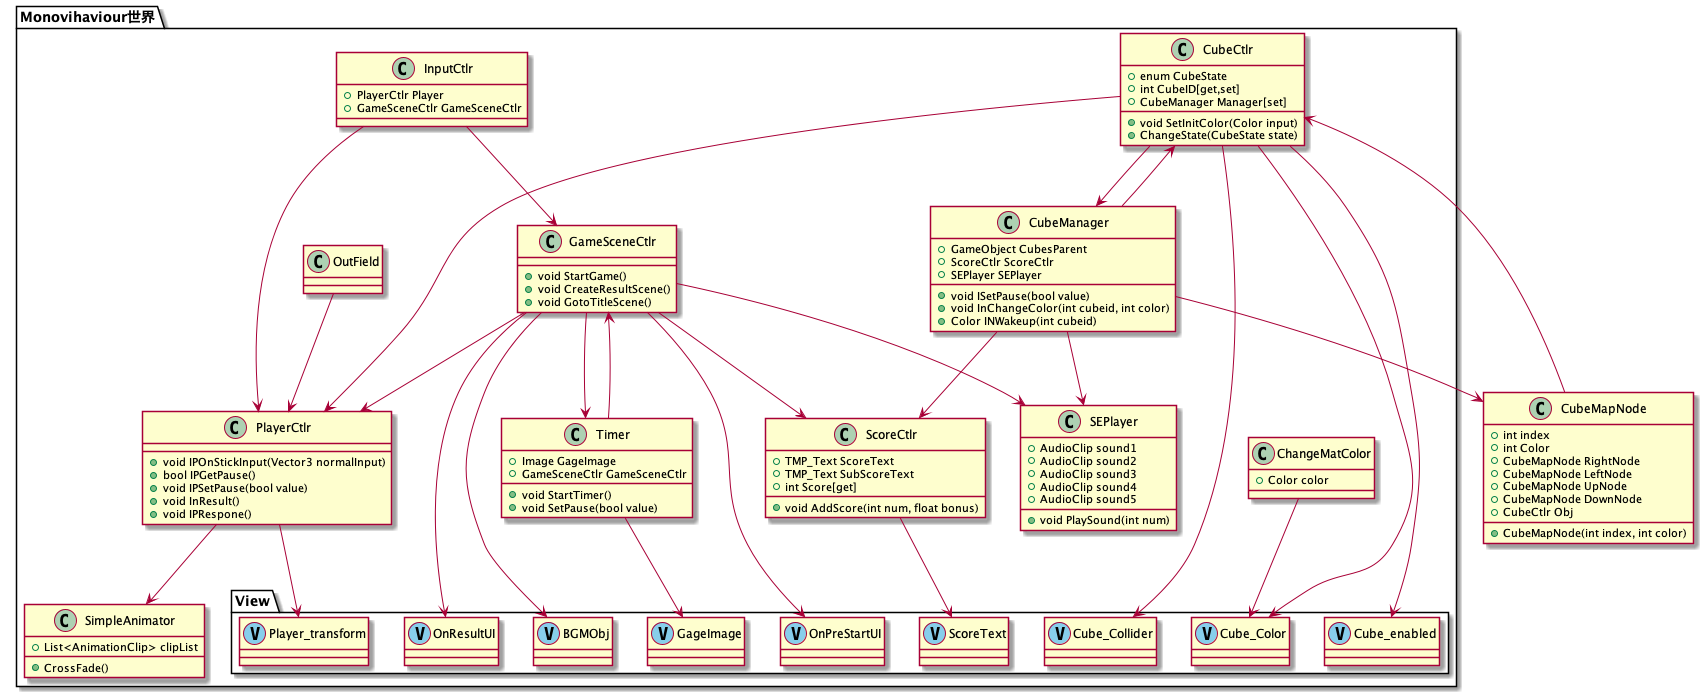
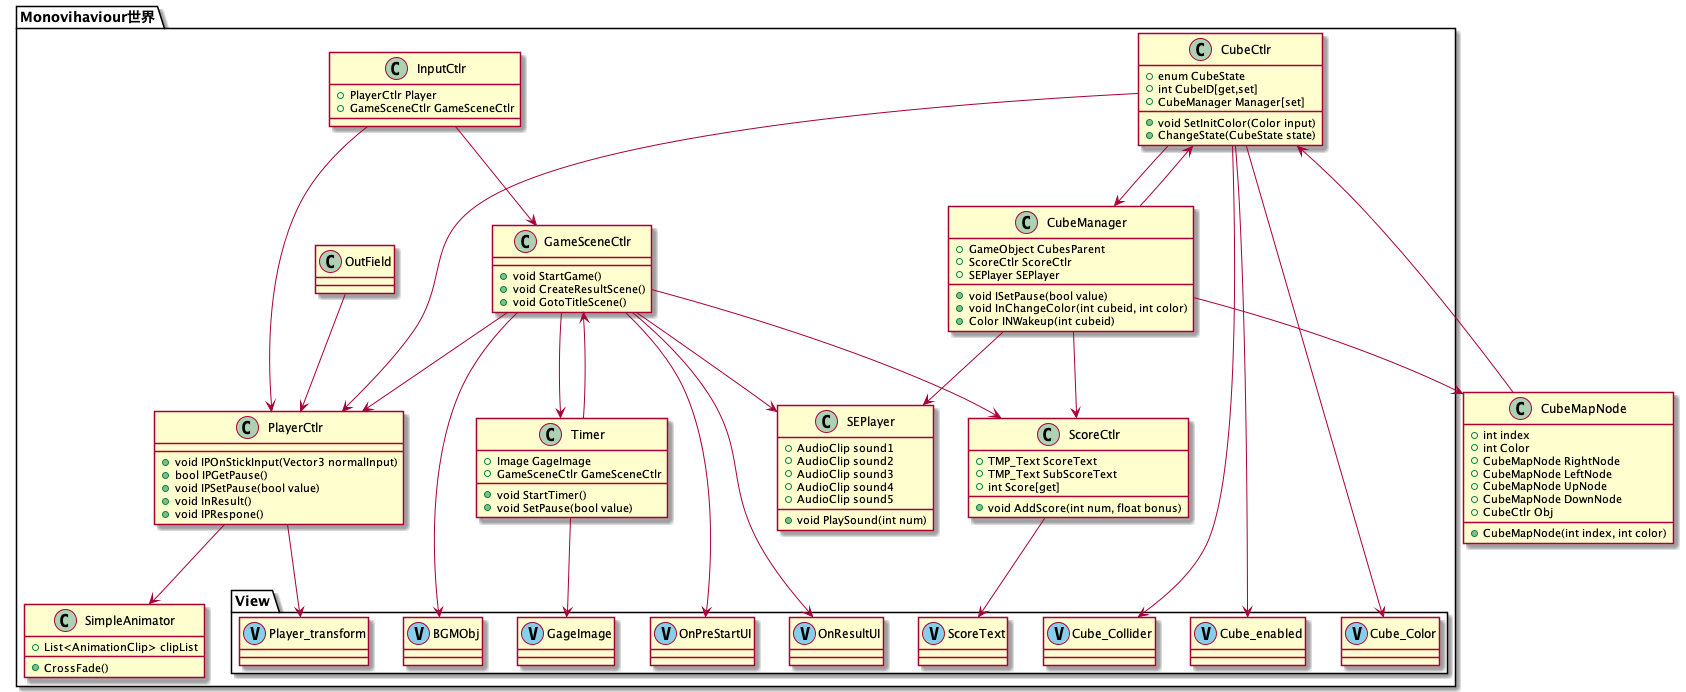
Fix Timer class design and Update UML

diff --git a/GameSceneCtlr.cs b/GameSceneCtlr.cs
@@ -9,8 +9,6 @@ public class GameSceneCtlr : MonoBehaviour
     [SerializeField]
     PlayerCtlr Player;
     [SerializeField]
-    Timer Timer;
-    [SerializeField]
     ScoreCtlr ScoreCtlr;
     [SerializeField]
     GameObject OnPreStartUI;
@@ -21,12 +19,31 @@ public class GameSceneCtlr : MonoBehaviour
     [SerializeField]
     GameObject BGMObj;
 
+    private TimePresenter timePresenter;
     private AudioSource bgmSource;
     private PlayableDirector director;
+    private bool inGame = false;
+    private float gameTime = 30f;
     private void Start()
     {
+        timePresenter = GetComponent<TimePresenter>();
         bgmSource = BGMObj.GetComponent<AudioSource>();
         director = GetComponent<PlayableDirector>();
+    }
+    void Update()
+    {
+        if (inGame)
+        {
+            gameTime -= Time.deltaTime;
+            if (gameTime <= 0)
+            {
+                gameTime = 0;
+                CreateResultScene();
+                inGame = false;
+            }
+            timePresenter.TimeUpdate(gameTime);
+        }
+
     }
 
     public void StartGame()
@@ -34,7 +51,7 @@ public class GameSceneCtlr : MonoBehaviour
         SEPlayer.PlaySound(1);
         OnPreStartUI.SetActive(false);
         Player.IPSetPause(false);
-        Timer.StartTimer();
+        startTimer();
     }
 
     public void CreateResultScene()
@@ -58,4 +75,10 @@ public class GameSceneCtlr : MonoBehaviour
         OnResultUI.SetActive(true);
         naichilab.RankingLoader.Instance.SendScoreAndShowRanking(ScoreCtlr.Score);
     }
+
+    private void startTimer()
+    {
+        inGame = true;
+    }
+
 }

diff --git a/TimePresenter.cs b/TimePresenter.cs
@@ -1,0 +1,15 @@
+using System.Collections;
+using System.Collections.Generic;
+using UnityEngine;
+using UnityEngine.UI;
+
+public class TimePresenter : MonoBehaviour
+{
+    [SerializeField]
+    public Image GageImage;
+
+    public void TimeUpdate(float time)
+    {
+        GageImage.fillAmount = time / 30f;
+    }
+}

diff --git a/PlayerCtlr.cs b/PlayerCtlr.cs
@@ -8,7 +8,7 @@ using UnityEngine;
 public class PlayerCtlr : MonoBehaviour
 {
     /* SETTING VALUE */
-    private float moveSpeed = 3f;
+    private float moveSpeed = 3.5f;
     private Vector3 gravity = new Vector3(0, -1.5f, 0);
 
     private SimpleAnimator animator;
